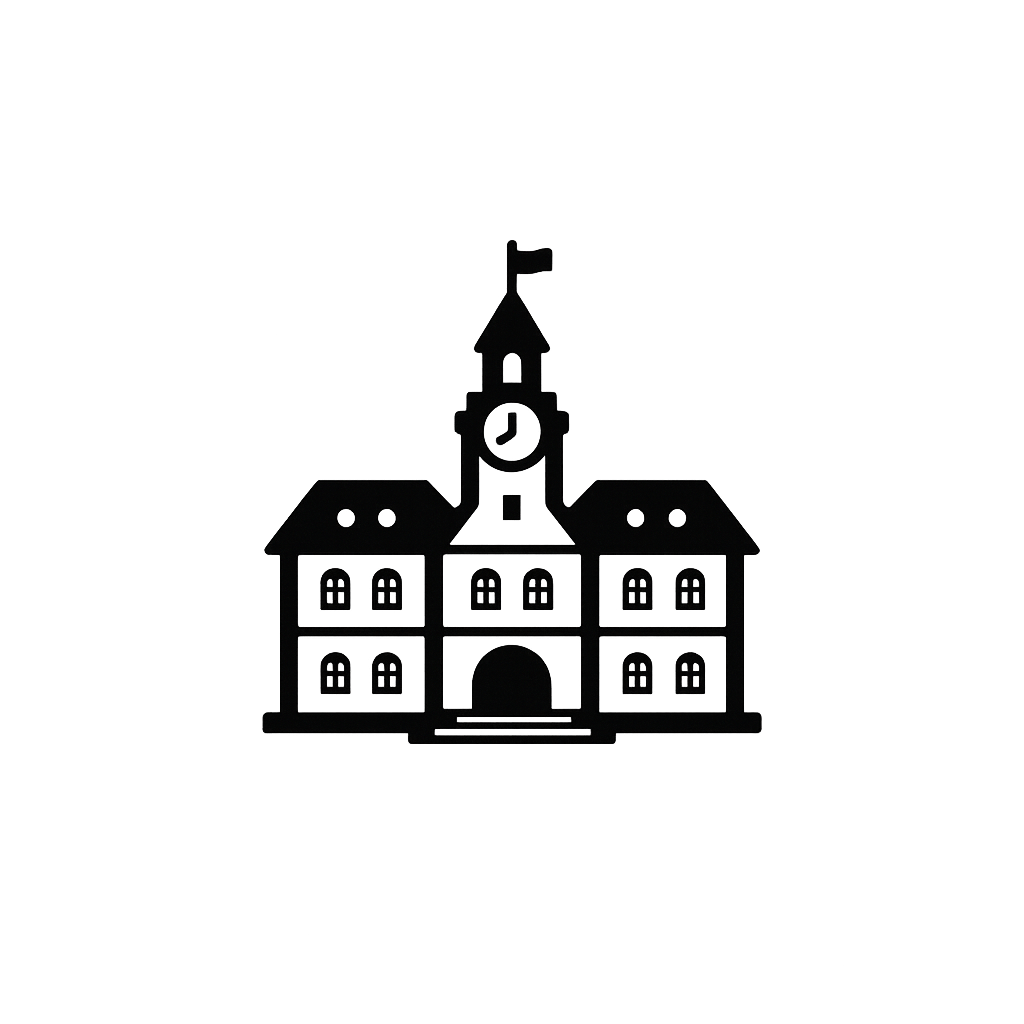
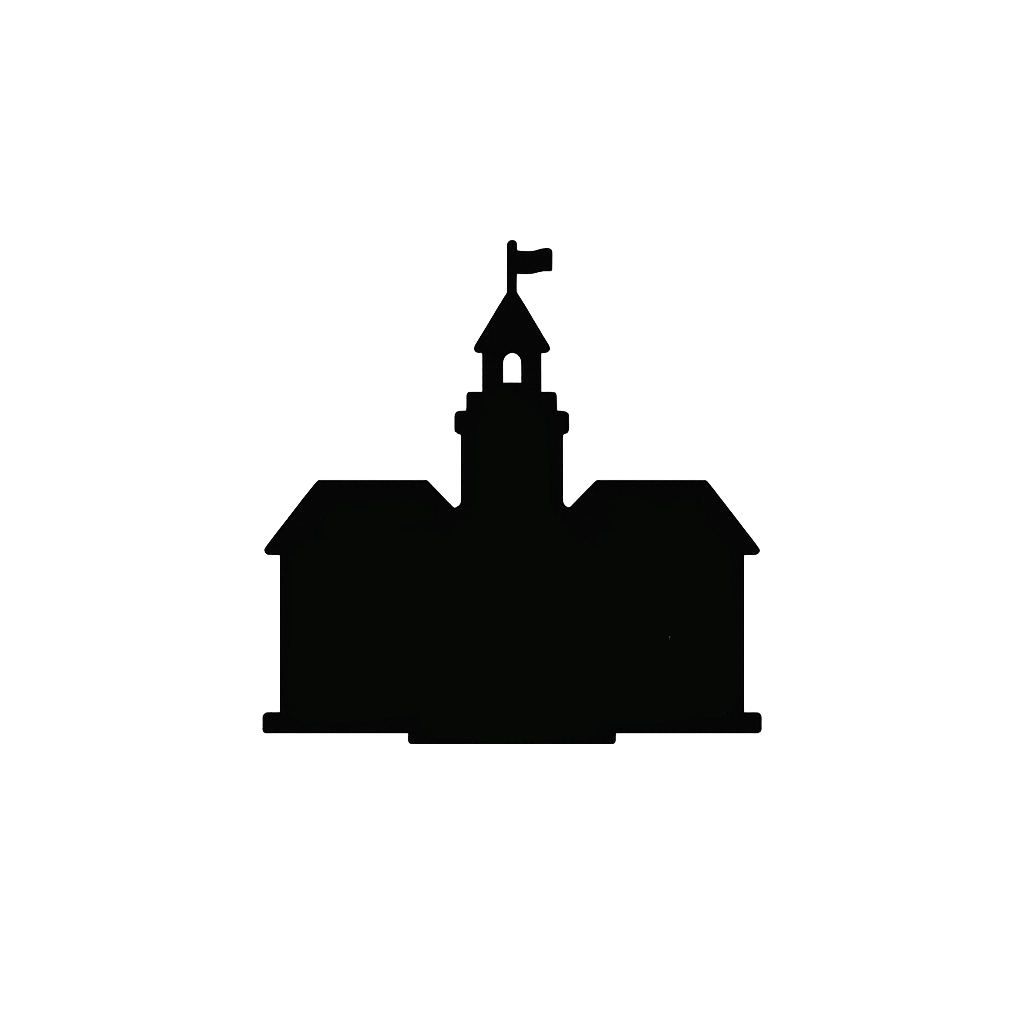
Fixes and tweaks

Changed region(s): [[0.2812, 0.375, 0.7188, 0.7188]]

diff --git a/index.html b/index.html
@@ -78,7 +78,7 @@
         <img class="control-btn-icon" src="assets/userPin.png" alt="" aria-hidden="true">
       </button>
       <button id="centerBtn" class="control-btn" type="button">
-        <img class="control-btn-icon" src="assets/townPin.png" alt="" aria-hidden="true">
+        <img class="control-btn-icon" src="assets/building_old.png" alt="" aria-hidden="true">
       </button>
       <!--button id="layersShowBtn" class="control-btn" type="button">
         <img class="control-btn-icon" src="assets/hamburgerMenu.png" alt="" aria-hidden="true">
